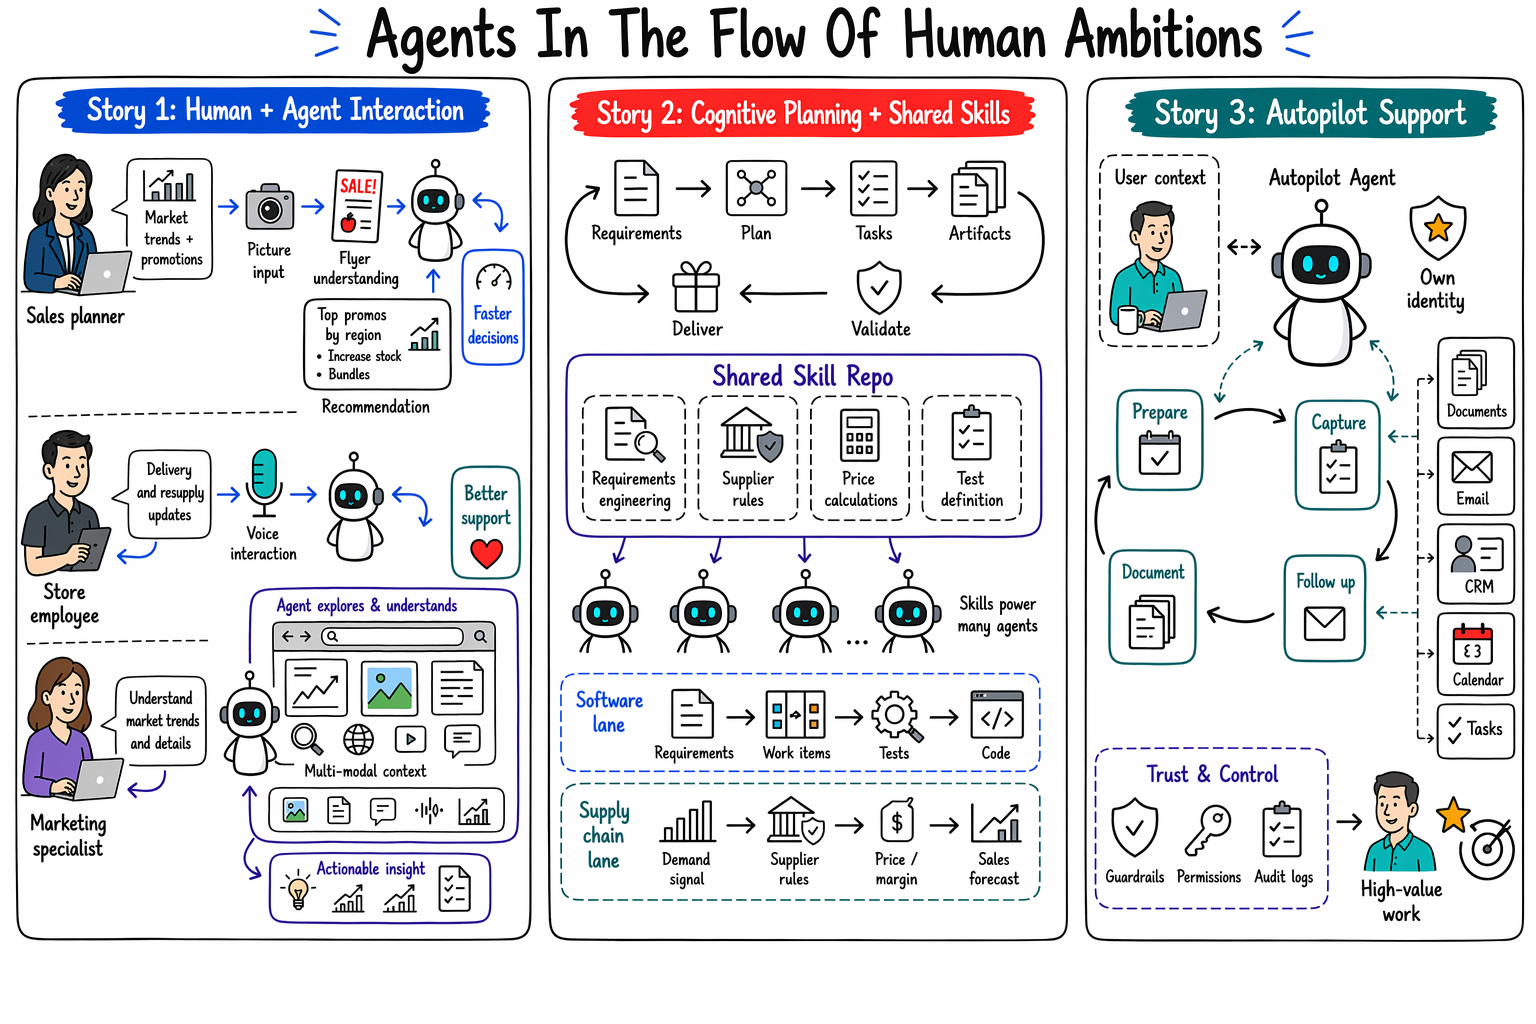
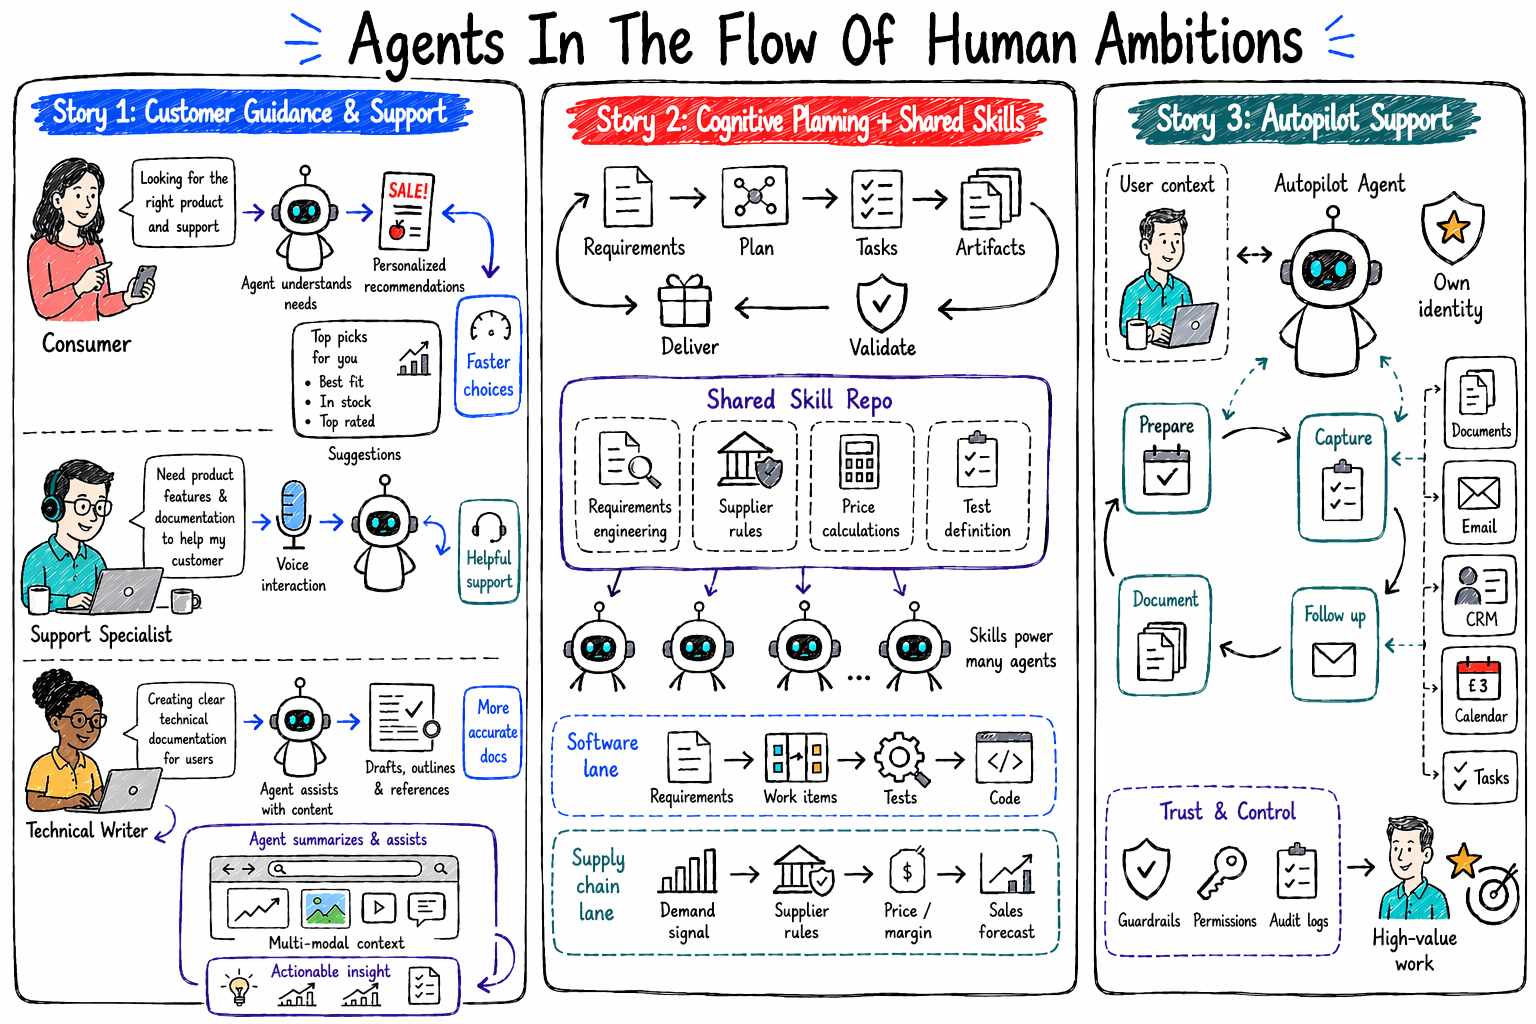
updated log

Changed region(s): [[0.0, 0.0, 1.0, 1.0], [0.4375, 0.9688, 0.5938, 1.0], [0.625, 0.9688, 0.6875, 1.0]]

diff --git a/2026-06-30-build-2026-recap.md b/2026-06-30-build-2026-recap.md
@@ -26,11 +26,11 @@ The `story-telling` repo tells one story: how the same skills and tools are reus
 
 ![foundry agents](https://raw.githubusercontent.com/denniszielke/story-telling/refs/heads/main/docs/foundryagents.png)
 
-**c.) How to build an autopilot in Foundry.** The most advanced runtime runs an OpenClaw agent entirely inside an Azure Container Apps Sandbox, so it never touches your machine and exposes its canvas and A2UI surfaces through a gateway. This is the pattern for autonomous, long-running autopilots that need an isolated execution environment.
+**c.) How to build an autopilot in Foundry.** The most advanced runtime runs an autonomous autopilot agent entirely inside Foundry. This is the pattern for autonomous, long-running autopilots that need an isolated execution environment.
 
 ![autopilot agents](https://raw.githubusercontent.com/denniszielke/story-telling/refs/heads/main/docs/autopilotagents.png)
 
-## 2. How can agents collaborate and integrate into user experiences
+## 2. How can agents collaborate and integrate into voice user experiences
 
 The `voice-product-support` repo wires the same bike-support domain up repeatedly through different protocols (MCP, A2A, Responses, Invocations) so the trade-offs between them become concrete rather than abstract. It is organised in three layers — user experiences, agents, and context providers — with voice as the connecting thread that shows how existing agents collaborate to fulfil more complex tasks. Code and narrative: https://github.com/denniszielke/voice-product-support
 